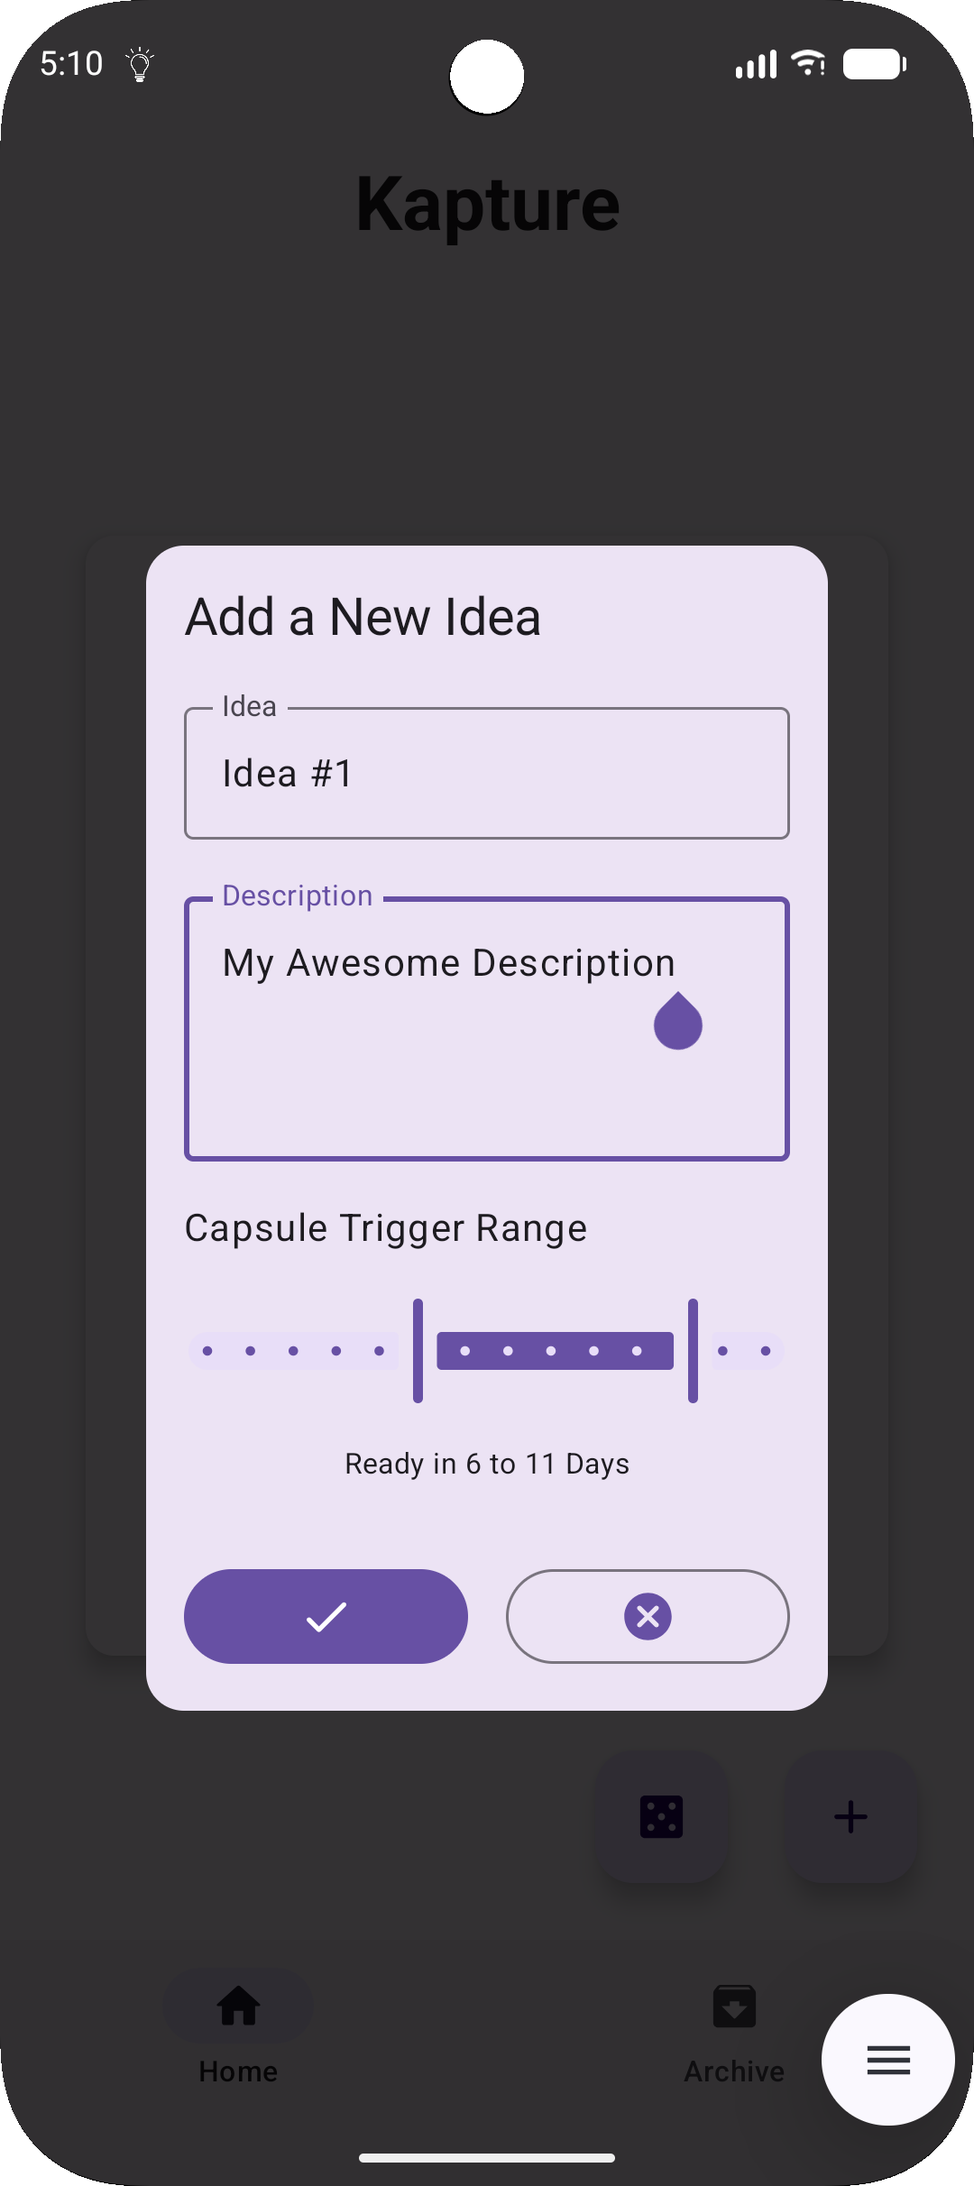
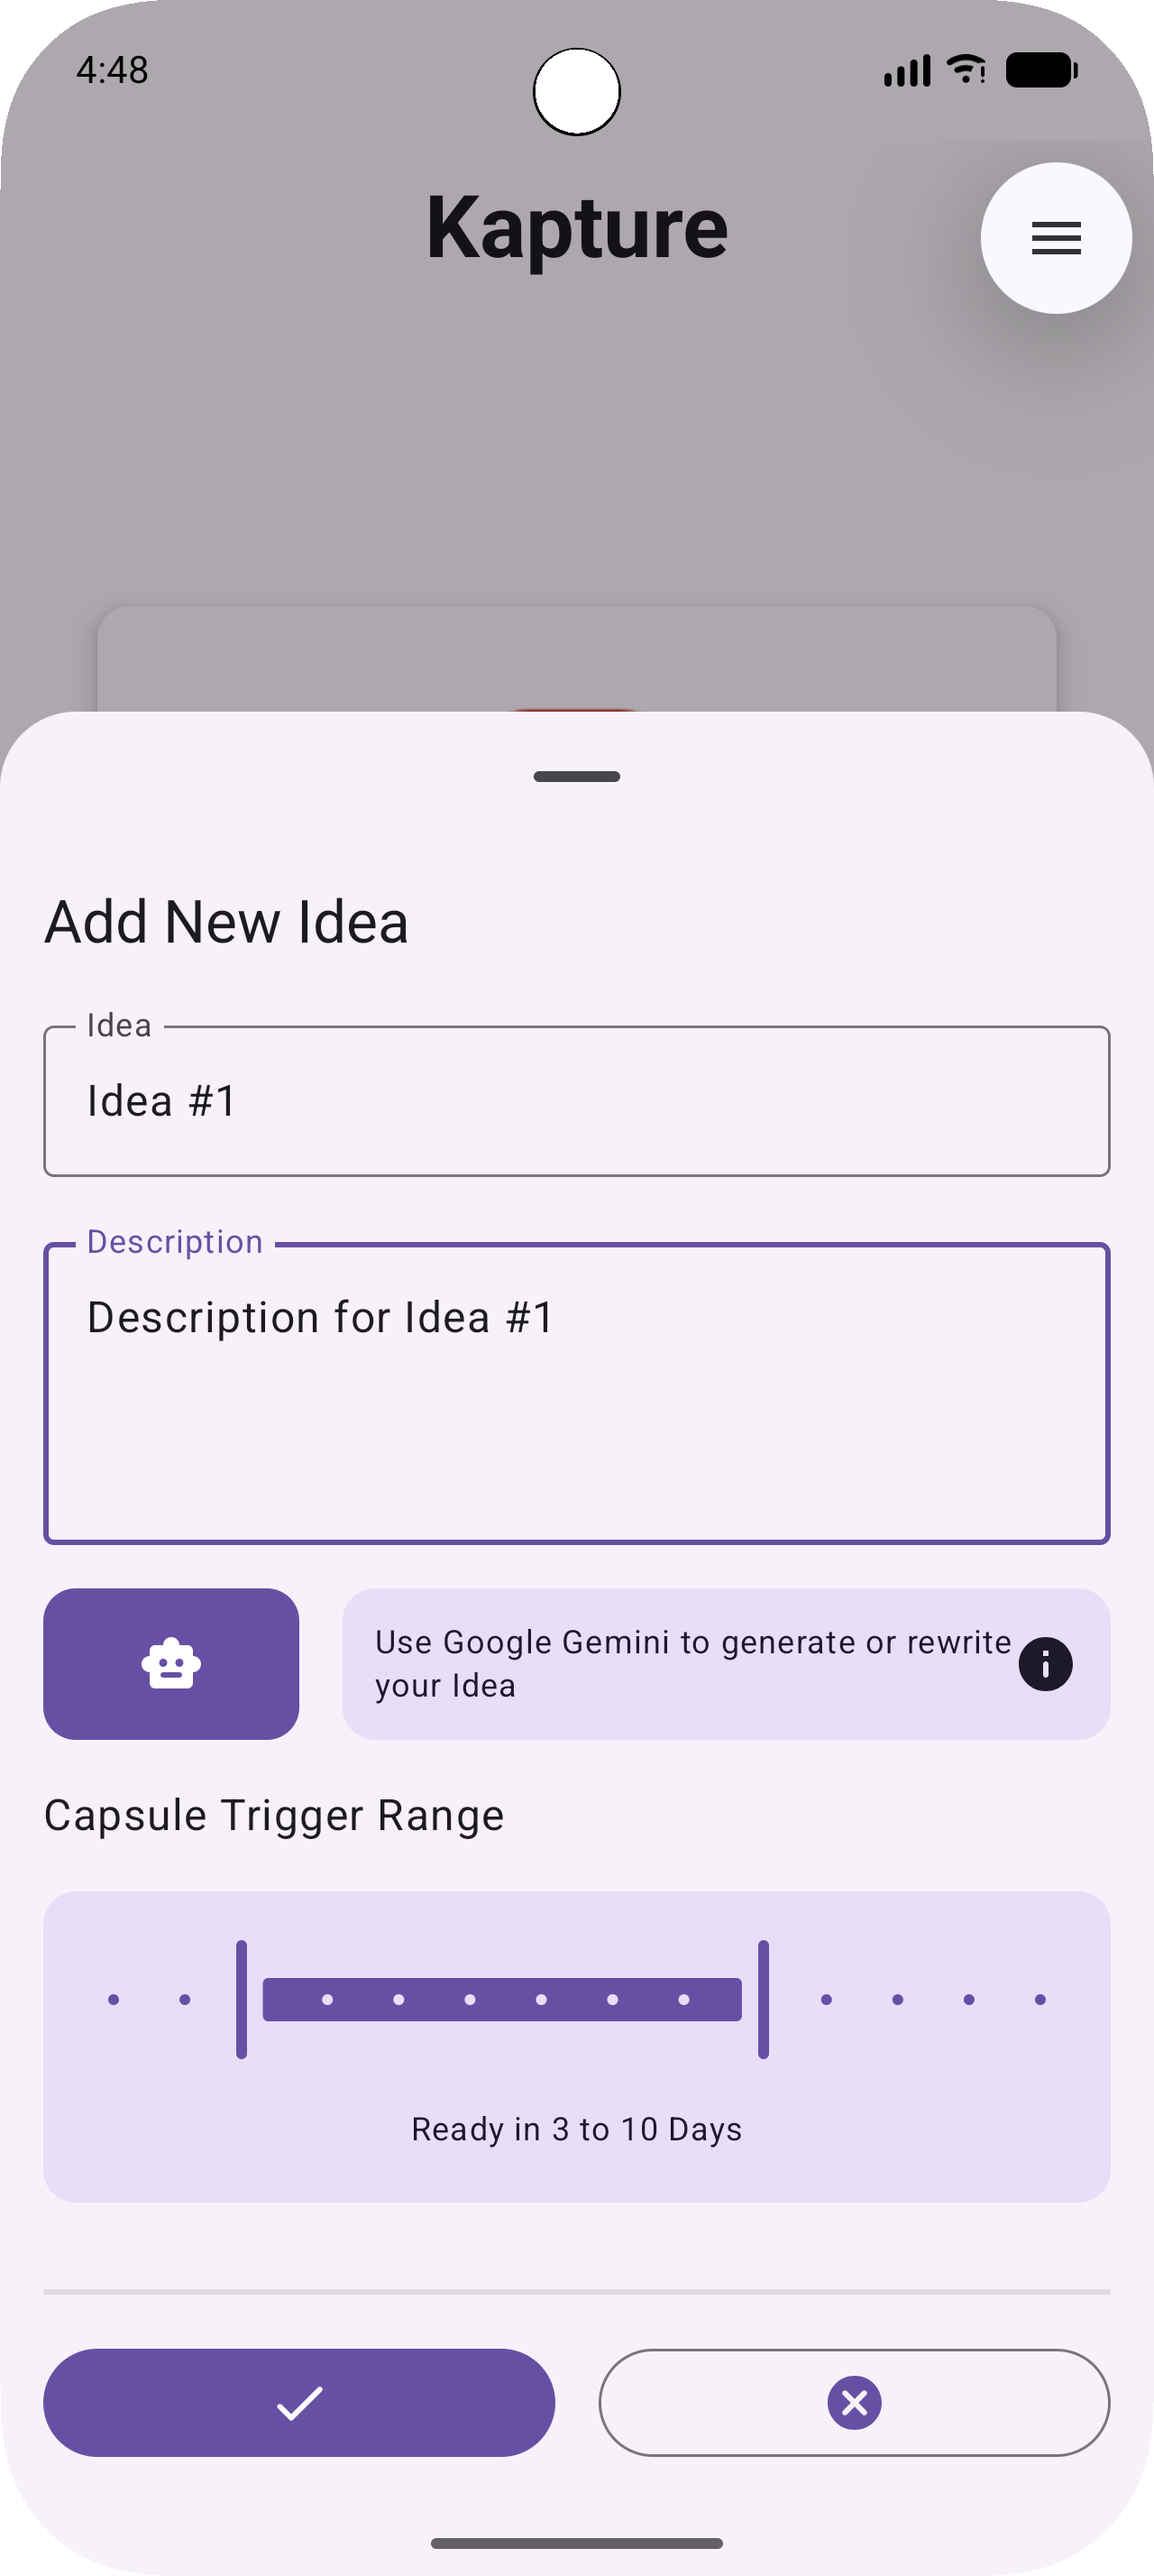
README.md (#39)

diff --git a/README.md b/README.md
@@ -8,6 +8,8 @@ If the user finds the idea valuable, they can choose to keep it in a permanent a
 
 ## Features
 - Create and store ideas with descriptions
+- Use AI assistance to generate idea titles and descriptions
+- Use AI assistance to rewrtite idea titles and descriptions
 - Set a future date range for idea review
 - Receive notifications on a randomly selected date within the specified range
 - Evaluate and archive, postpone or discard ideas
@@ -39,3 +41,9 @@ If the user finds the idea valuable, they can choose to keep it in a permanent a
 - AlarmManager (Android)
 - UserNotifications Framework (iOS)
 - Local Storage
+
+# Library Dependencies
+
+- Ktor for networking - Gemini API-Calls
+- Moko Resources for resource management
+- Russhwolf for key-value storage
